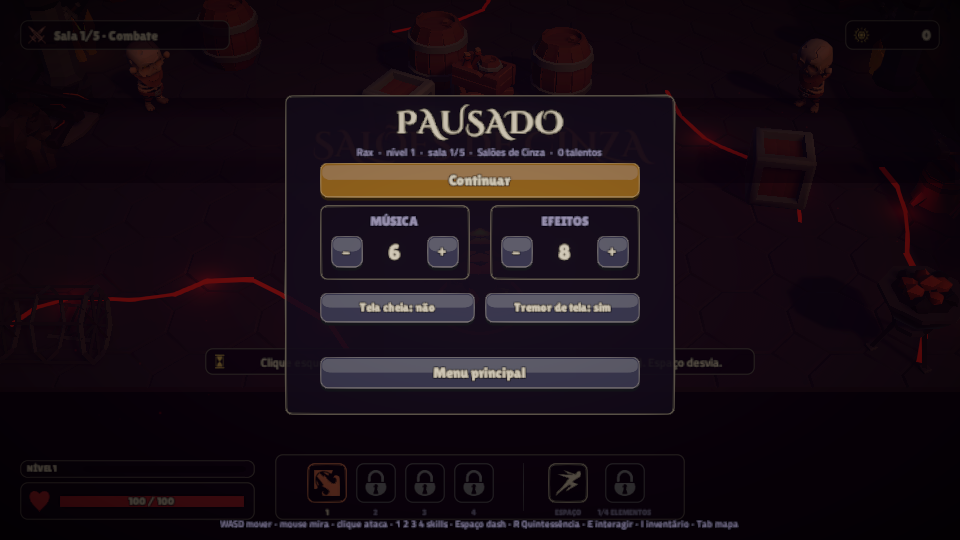
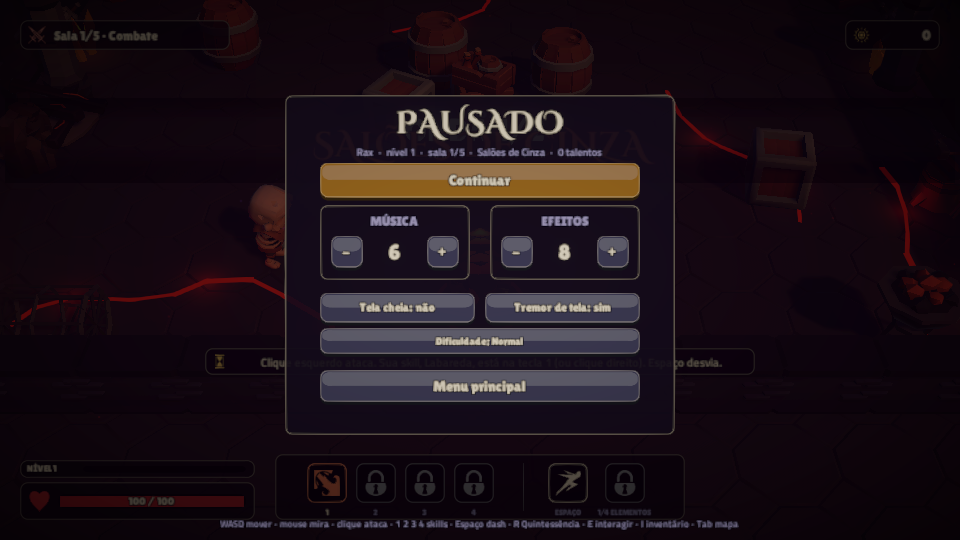
Opções: dificuldade Tranquila (o herói recebe 35% menos dano de tudo), no título e na pausa, vale na hora e aparece no resultado

diff --git a/docs/progresso.html b/docs/progresso.html
@@ -46,6 +46,8 @@
           <li><b>A primeira sala estava dura demais para quem está aprendendo:</b> a sonda que calibrava a dificuldade desviava de todo aviso com reflexo perfeito. Agora ela desvia de 65% dos avisos, como alguém que joga razoavelmente</li>
           <li>Com isso: as duas primeiras salas viraram <b>aquecimento</b> (o inimigo bate 75% e depois 87%) e a <b>Liora</b>, que perdia as três runs da medição, ganhou arco de 65° no chicote e cura de 8% ao limpar a sala</li>
           <li>Medição com desvio de 65%, antes do reforço da Liora: <b>5 de 12 runs vencidas</b> (Rax 2, Brann 2, Vey 1, Liora 0)</li>
+          <li>Depois do reforço e do aquecimento: <b>8 de 12</b> (Rax 3, Brann 3, Liora 1, Vey 1). Com só 12 runs a variação é grande; a faixa de 40% a 67% para alguém que joga razoavelmente parece certa. Registro em <code>docs/sonda_balanceamento.txt</code></li>
+          <li><b>Dificuldade Tranquila</b> nas Opções (título e pausa): o herói recebe 35% menos dano de tudo, inclusive chefes e perigos. Desligada por padrão, vale na hora e aparece no resultado da run</li>
           <li><b>Borda da sala:</b> na entrada, a câmera mostrava um vazio preto embaixo da sala. Agora há uma mureta baixa e o piso continua além dela</li>
         </ul>
       </div>

diff --git a/Assets/Game/UI/Hud.cs b/Assets/Game/UI/Hud.cs
@@ -563,24 +563,24 @@ namespace Quintessence.UI
             bool hasBoons = boons != null && boons.Count > 0;
             // com bencaos, o painel sobe um pouco para a lista caber embaixo
             float top = hasBoons ? 110f : 30f;
-            UiKit.Box("Box", pausePanel, center, new Vector2(0, top), new Vector2(780, 640), 0.94f);
+            UiKit.Box("Box", pausePanel, center, new Vector2(0, top - 20), new Vector2(780, 680), 0.94f);
             var title = UiKit.Text(UiKit.Rect("Title", pausePanel, center, new Vector2(0, top + 262), new Vector2(700, 80)), "PAUSADO", 64, UiKit.Cream);
             title.font = GameFonts.Title;
             if (!string.IsNullOrEmpty(PauseSummary))
                 UiKit.Text(UiKit.Rect("Summary", pausePanel, center, new Vector2(0, top + 206), new Vector2(760, 28)), PauseSummary, 21, UiKit.Dim, TextAnchor.MiddleCenter, false);
             UiKit.Focus(UiKit.Button(pausePanel, "Continuar", center, new Vector2(0, top + 150), new Vector2(640, 70), UiKit.Primary, resume).gameObject);
             UiOptions.Build(pausePanel, new Vector2(0, top - 20));
-            UiKit.Button(pausePanel, "Menu principal", center, new Vector2(0, top - 235), new Vector2(640, 64), UiKit.Secondary, menu);
+            UiKit.Button(pausePanel, "Menu principal", center, new Vector2(0, top - 262), new Vector2(640, 64), UiKit.Secondary, menu);
             if (hasBoons)
             {
-                UiKit.Text(UiKit.Rect("BoonsTitle", pausePanel, center, new Vector2(0, top - 350), new Vector2(900, 36)), "BÊNÇÃOS", 26, UiKit.Dim);
+                UiKit.Text(UiKit.Rect("BoonsTitle", pausePanel, center, new Vector2(0, top - 372), new Vector2(900, 36)), "BÊNÇÃOS", 26, UiKit.Dim);
                 bool two = boons.Count > 4;
                 int rows = two ? (boons.Count + 1) / 2 : boons.Count;
                 for (int i = 0; i < boons.Count; i++)
                 {
                     float x = two ? (i < rows ? -430f : 430f) : 0f;
                     int row = two && i >= rows ? i - rows : i;
-                    UiKit.Text(UiKit.Rect("Boon" + i, pausePanel, center, new Vector2(x, top - 388 - row * 30), new Vector2(840, 30)),
+                    UiKit.Text(UiKit.Rect("Boon" + i, pausePanel, center, new Vector2(x, top - 408 - row * 30), new Vector2(840, 30)),
                         boons[i].name + " — " + boons[i].description, 22, UiKit.Cream, TextAnchor.MiddleCenter, false);
                 }
             }

diff --git a/Assets/Game/Game/RunDirector.cs b/Assets/Game/Game/RunDirector.cs
@@ -517,6 +517,8 @@ namespace Quintessence.Game
         void Update()
         {
             if (Finished) return;
+            // a dificuldade pode mudar na pausa: vale na hora
+            if (playerHealth != null) playerHealth.Pool.AssistMultiplier = GameFlow.Tutorial ? 1f : GamePrefs.HeroDamageTaken;
             TickTrial();
             if ((saveHealthTimer -= Time.unscaledDeltaTime) <= 0f) { saveHealthTimer = 2f; SyncSavedHealth(); }
             if (levelUpOpen) { }
@@ -777,7 +779,7 @@ namespace Quintessence.Game
             ShardsEarned = shards;
             // o resultado ja esta gravado: fechar a aba durante a pausa abaixo nao perde a run
             yield return new WaitForSecondsRealtime(victory ? 1.6f : 1.2f);
-            string stats = (GameFlow.Ascension > 0 ? $"Ascensão {GameFlow.Ascension}   ·   " : "") + $"{HeroPassives.HeroName(GameFlow.StartElement)}   ·   Nível {Run.Progress.Level}   ·   {Plural(Run.Kills, "inimigo derrotado", "inimigos derrotados")}   ·   {Plural(Run.Talents.Count, "talento", "talentos")} e {Plural(Run.Boons.Count, "bênção", "bênçãos")}"
+            string stats = (GamePrefs.Relaxed ? "Tranquila   ·   " : "") + (GameFlow.Ascension > 0 ? $"Ascensão {GameFlow.Ascension}   ·   " : "") + $"{HeroPassives.HeroName(GameFlow.StartElement)}   ·   Nível {Run.Progress.Level}   ·   {Plural(Run.Kills, "inimigo derrotado", "inimigos derrotados")}   ·   {Plural(Run.Talents.Count, "talento", "talentos")} e {Plural(Run.Boons.Count, "bênção", "bênçãos")}"
                 + (!victory && KilledBy.Length > 0 ? $"\nDerrubado por: {KilledBy}" : "")
                 + $"\nSalas vencidas: {Run.RoomsCleared}   ·   Essência: {Run.Essence}   ·   Elementos: {player.Loadout.Awakened.Count}/4   ·   Tempo: {seconds / 60}:{seconds % 60:00}"
                 + $"\n+{shards} Fragmentos para o Refúgio (total: {MetaStore.Current.Shards})   ·   {HeroPassives.HeroName(GameFlow.StartElement)} +{MasteryGained} de maestria"

diff --git a/Assets/Game/Game/Tests/PlayMode/RunPlayTests.cs b/Assets/Game/Game/Tests/PlayMode/RunPlayTests.cs
@@ -45,6 +45,7 @@ namespace Quintessence.Game.PlayTests
             GameFlow.Resume = null;
             // a esquiva do Vey e sorteada: nos testes o golpe sempre entra (senao um golpe fatal falha 15% das vezes)
             HealthPool.ForceEvade = false;
+            GamePrefs.Force = false;
         }
 
         [TearDown]
@@ -54,6 +55,7 @@ namespace Quintessence.Game.PlayTests
             MetaStore.UseKey(MetaStore.DefaultKey);
             GameFlow.AutoPickTalents = false;
             HealthPool.ForceEvade = null;
+            GamePrefs.Force = null;
             RunSaveStore.Clear();
             RunSaveStore.UseKey(RunSaveStore.DefaultKey);
             Tips.ResetAll();
@@ -871,6 +873,18 @@ namespace Quintessence.Game.PlayTests
             for (int k = 0; k < 2000 && director.Busy; k++) yield return null;
             var hp = Object.FindFirstObjectByType<PlayerController>().GetComponent<Health>();
             int IdFor(TrialKind kind) { for (int i = 0; ; i++) if (Trials.Pick(GameFlow.Seed, i) == kind) return i; }
+            // dificuldade Tranquila: o heroi recebe 35% menos dano, e vale na hora (pode ser trocada na pausa)
+            GamePrefs.Force = true;
+            yield return null;
+            Assert.AreEqual(GamePrefs.RelaxedDamageTaken, hp.Pool.AssistMultiplier, 0.001f);
+            float full = hp.Current;
+            hp.TakeDamage(new DamageInfo(20f, ElementType.None, Team.Enemy));
+            Assert.AreEqual(full - 20f * GamePrefs.RelaxedDamageTaken, hp.Current, 0.01f);
+            GamePrefs.Force = false;
+            yield return null;
+            Assert.AreEqual(1f, hp.Pool.AssistMultiplier, 0.001f);
+            hp.Heal(999f);
+            for (int k = 0; k < 30; k++) yield return null;
 
             // Ileso: tres golpes ainda cumprem (dois juntos contam um)
             director.StartTrial(new MapNode { Id = IdFor(TrialKind.Unscathed), Type = RoomType.Trial }, 2);

diff --git a/Assets/Game/UI/UiOptions.cs b/Assets/Game/UI/UiOptions.cs
@@ -7,7 +7,7 @@ namespace Quintessence.UI
     /// Opcoes que aparecem na pausa e no titulo: volume de musica e de efeitos, tela cheia e tremor de tela.
     public static class UiOptions
     {
-        /// Monta os tres controles em volta de pos (ancorados no centro de parent). Ocupa 660 x 240.
+        /// Monta os controles em volta de pos (ancorados no centro de parent). Ocupa 660 x 310.
         public static void Build(Transform parent, Vector2 pos)
         {
             Stepper(parent, pos + new Vector2(-170, 45), "MÚSICA", () => AudioPrefs.Music, v => AudioPrefs.Music = v);
@@ -29,7 +29,18 @@ namespace Quintessence.UI
             });
             label = b.transform.Find("Label").GetComponent<UnityEngine.UI.Text>();
             label.fontSize = 24;
+            UnityEngine.UI.Text difficultyLabel = null;
+            var d = UiKit.Button(parent, DifficultyLabel(), new Vector2(0.5f, 0.5f), pos + new Vector2(0, -152), new Vector2(640, 52), UiKit.Secondary, () =>
+            {
+                GamePrefs.Relaxed = !GamePrefs.Relaxed;
+                difficultyLabel.text = DifficultyLabel();
+            });
+            d.name = "Difficulty";
+            difficultyLabel = d.transform.Find("Label").GetComponent<UnityEngine.UI.Text>();
+            difficultyLabel.fontSize = 22;
         }
+
+        static string DifficultyLabel() => GamePrefs.Relaxed ? "Dificuldade: Tranquila (você recebe 35% menos dano)" : "Dificuldade: Normal";
 
         static string ShakeLabel() => FxPrefs.ScreenShake ? "Tremor de tela: sim" : "Tremor de tela: não";
 

diff --git a/Assets/Game/Core/HealthPool.cs b/Assets/Game/Core/HealthPool.cs
@@ -12,6 +12,8 @@ namespace Quintessence.Core
         public float DamageTakenMultiplier { get; set; } = 1f;
         /// Segundo multiplicador, independente do de status (ex.: Quintessencia = 0.5).
         public float ExtraDamageTakenMultiplier { get; set; } = 1f;
+        /// Ajuda da dificuldade Tranquila (so no heroi). 1 = normal.
+        public float AssistMultiplier { get; set; } = 1f;
         /// Terceiro multiplicador, permanente na run (pactos).
         public float CurseMultiplier { get; set; } = 1f;
         /// Chance (0..1) de esquivar um golpe inteiro (passiva do Vey).
@@ -42,7 +44,7 @@ namespace Quintessence.Core
             if (IsDead || Invulnerable || amount <= 0f) return 0f;
             if (Evasion > 0f && (ForceEvade ?? dice.NextDouble() < Evasion)) { LastEvaded = true; return 0f; }
             if (Blocks > 0) { Blocks--; LastBlocked = true; return 0f; }
-            float applied = Math.Min(Current, amount * Math.Max(0f, DamageTakenMultiplier) * Math.Max(0f, ExtraDamageTakenMultiplier) * Math.Max(0f, CurseMultiplier));
+            float applied = Math.Min(Current, amount * Math.Max(0f, DamageTakenMultiplier) * Math.Max(0f, ExtraDamageTakenMultiplier) * Math.Max(0f, CurseMultiplier) * Math.Max(0f, AssistMultiplier));
             Current -= applied;
             return applied;
         }

diff --git a/Assets/Game/Core/Sfx.cs b/Assets/Game/Core/Sfx.cs
@@ -24,6 +24,24 @@ namespace Quintessence.Core
         }
     }
 
+    /// Dificuldade escolhida nas opcoes. Tranquila: o heroi recebe 35% menos dano de tudo (inimigos, chefes, perigos).
+    public static class GamePrefs
+    {
+        const string RelaxedKey = "game.relaxed";
+        public const float RelaxedDamageTaken = 0.65f;
+        static int relaxed = -1;
+        /// Os testes fixam a dificuldade aqui sem tocar na escolha guardada de quem joga.
+        public static bool? Force;
+
+        public static bool Relaxed
+        {
+            get { if (Force.HasValue) return Force.Value; if (relaxed < 0) relaxed = PlayerPrefs.GetInt(RelaxedKey, 0); return relaxed == 1; }
+            set { relaxed = value ? 1 : 0; PlayerPrefs.SetInt(RelaxedKey, relaxed); }
+        }
+
+        public static float HeroDamageTaken => Relaxed ? RelaxedDamageTaken : 1f;
+    }
+
     /// Volumes escolhidos pelo jogador (0..1), guardados entre sessoes.
     public static class AudioPrefs
     {

diff --git a/Assets/Game/Core/Tests/Editor/HealthTests.cs b/Assets/Game/Core/Tests/Editor/HealthTests.cs
@@ -3,6 +3,26 @@ using UnityEngine;
 
 namespace Quintessence.Core.Tests
 {
+    public class AssistTests
+    {
+        [Test] public void RelaxedDifficulty_CutsHeroDamage()
+        {
+            var p = new HealthPool(100);
+            p.AssistMultiplier = 0.65f;
+            p.Damage(20f);
+            Assert.AreEqual(87f, p.Current, 0.001f);
+            try
+            {
+                GamePrefs.Force = true;
+                Assert.IsTrue(GamePrefs.Relaxed);
+                Assert.AreEqual(GamePrefs.RelaxedDamageTaken, GamePrefs.HeroDamageTaken, 1e-4f);
+                GamePrefs.Force = false;
+                Assert.AreEqual(1f, GamePrefs.HeroDamageTaken);
+            }
+            finally { GamePrefs.Force = null; }
+        }
+    }
+
     public class HealthPoolTests
     {
         [Test] public void StartsFull() { var p = new HealthPool(100); Assert.AreEqual(100, p.Current); Assert.IsFalse(p.IsDead); }

diff --git a/Assets/Game/Game/Tests/PlayMode/BalanceProbe.cs b/Assets/Game/Game/Tests/PlayMode/BalanceProbe.cs
@@ -36,6 +36,7 @@ namespace Quintessence.Game.PlayTests
             // o roteiro desvia de todo aviso com reflexo perfeito, mas joga sem estrategia: dano cheio por padrao
             float taken = ProbeTaken;
             GameFlow.AutoPickTalents = true;
+            GamePrefs.Force = false; // a sonda mede a dificuldade Normal
             MetaStore.UseKey("quintessence.meta.test");
             RunSaveStore.UseKey("quintessence.run.probe");
             Tips.UseKey("quintessence.tips.probe");

diff --git a/Assets/Game/UI/TitleMenu.cs b/Assets/Game/UI/TitleMenu.cs
@@ -149,7 +149,7 @@ namespace Quintessence.UI
 
         public void ShowOptions()
         {
-            var box = OpenSheet("OPÇÕES", 560);
+            var box = OpenSheet("OPÇÕES", 640);
             UiOptions.Build(box, new Vector2(0, 10));
         }
 

diff --git a/docs/GDD.md b/docs/GDD.md
@@ -183,7 +183,7 @@ Os tipos entram aos poucos: Ceifador na segunda sala, Cinzentos na terceira, Arr
 
 ### Menus
 
-Título com os quatro heróis no altar (o herói da carta em foco comemora), Continuar run quando há uma salva, seletor de Ascensão depois da primeira vitória, Refúgio (com vitórias por herói), Grimório (heróis, inimigos e reações), Treino (com o herói da última carta em foco), Opções (volumes, tela cheia, tremor de tela) e Créditos. Na run: pausa com as opções, inventário (skills, reações, atributos, bênçãos e talentos), mapa com os trechos, escolha de talento a cada nível e dicas de primeira vez no rodapé. Resultado com herói, nível, abates, quem derrubou o herói e os Fragmentos ganhos.
+Título com os quatro heróis no altar (o herói da carta em foco comemora), Continuar run quando há uma salva, seletor de Ascensão depois da primeira vitória, Refúgio (com vitórias por herói), Grimório (heróis, inimigos e reações), Treino (com o herói da última carta em foco), Opções (volumes, tela cheia, tremor de tela e dificuldade: Normal ou Tranquila, em que o herói recebe 35% menos dano de tudo; vale na hora, até pela pausa, e aparece no resultado) e Créditos. Na run: pausa com as opções, inventário (skills, reações, atributos, bênçãos e talentos), mapa com os trechos, escolha de talento a cada nível e dicas de primeira vez no rodapé. Resultado com herói, nível, abates, quem derrubou o herói e os Fragmentos ganhos.
 
 A build WebGL tem página de carregamento própria (arte do título, barra dourada e os controles) e abre direto no título.
 
